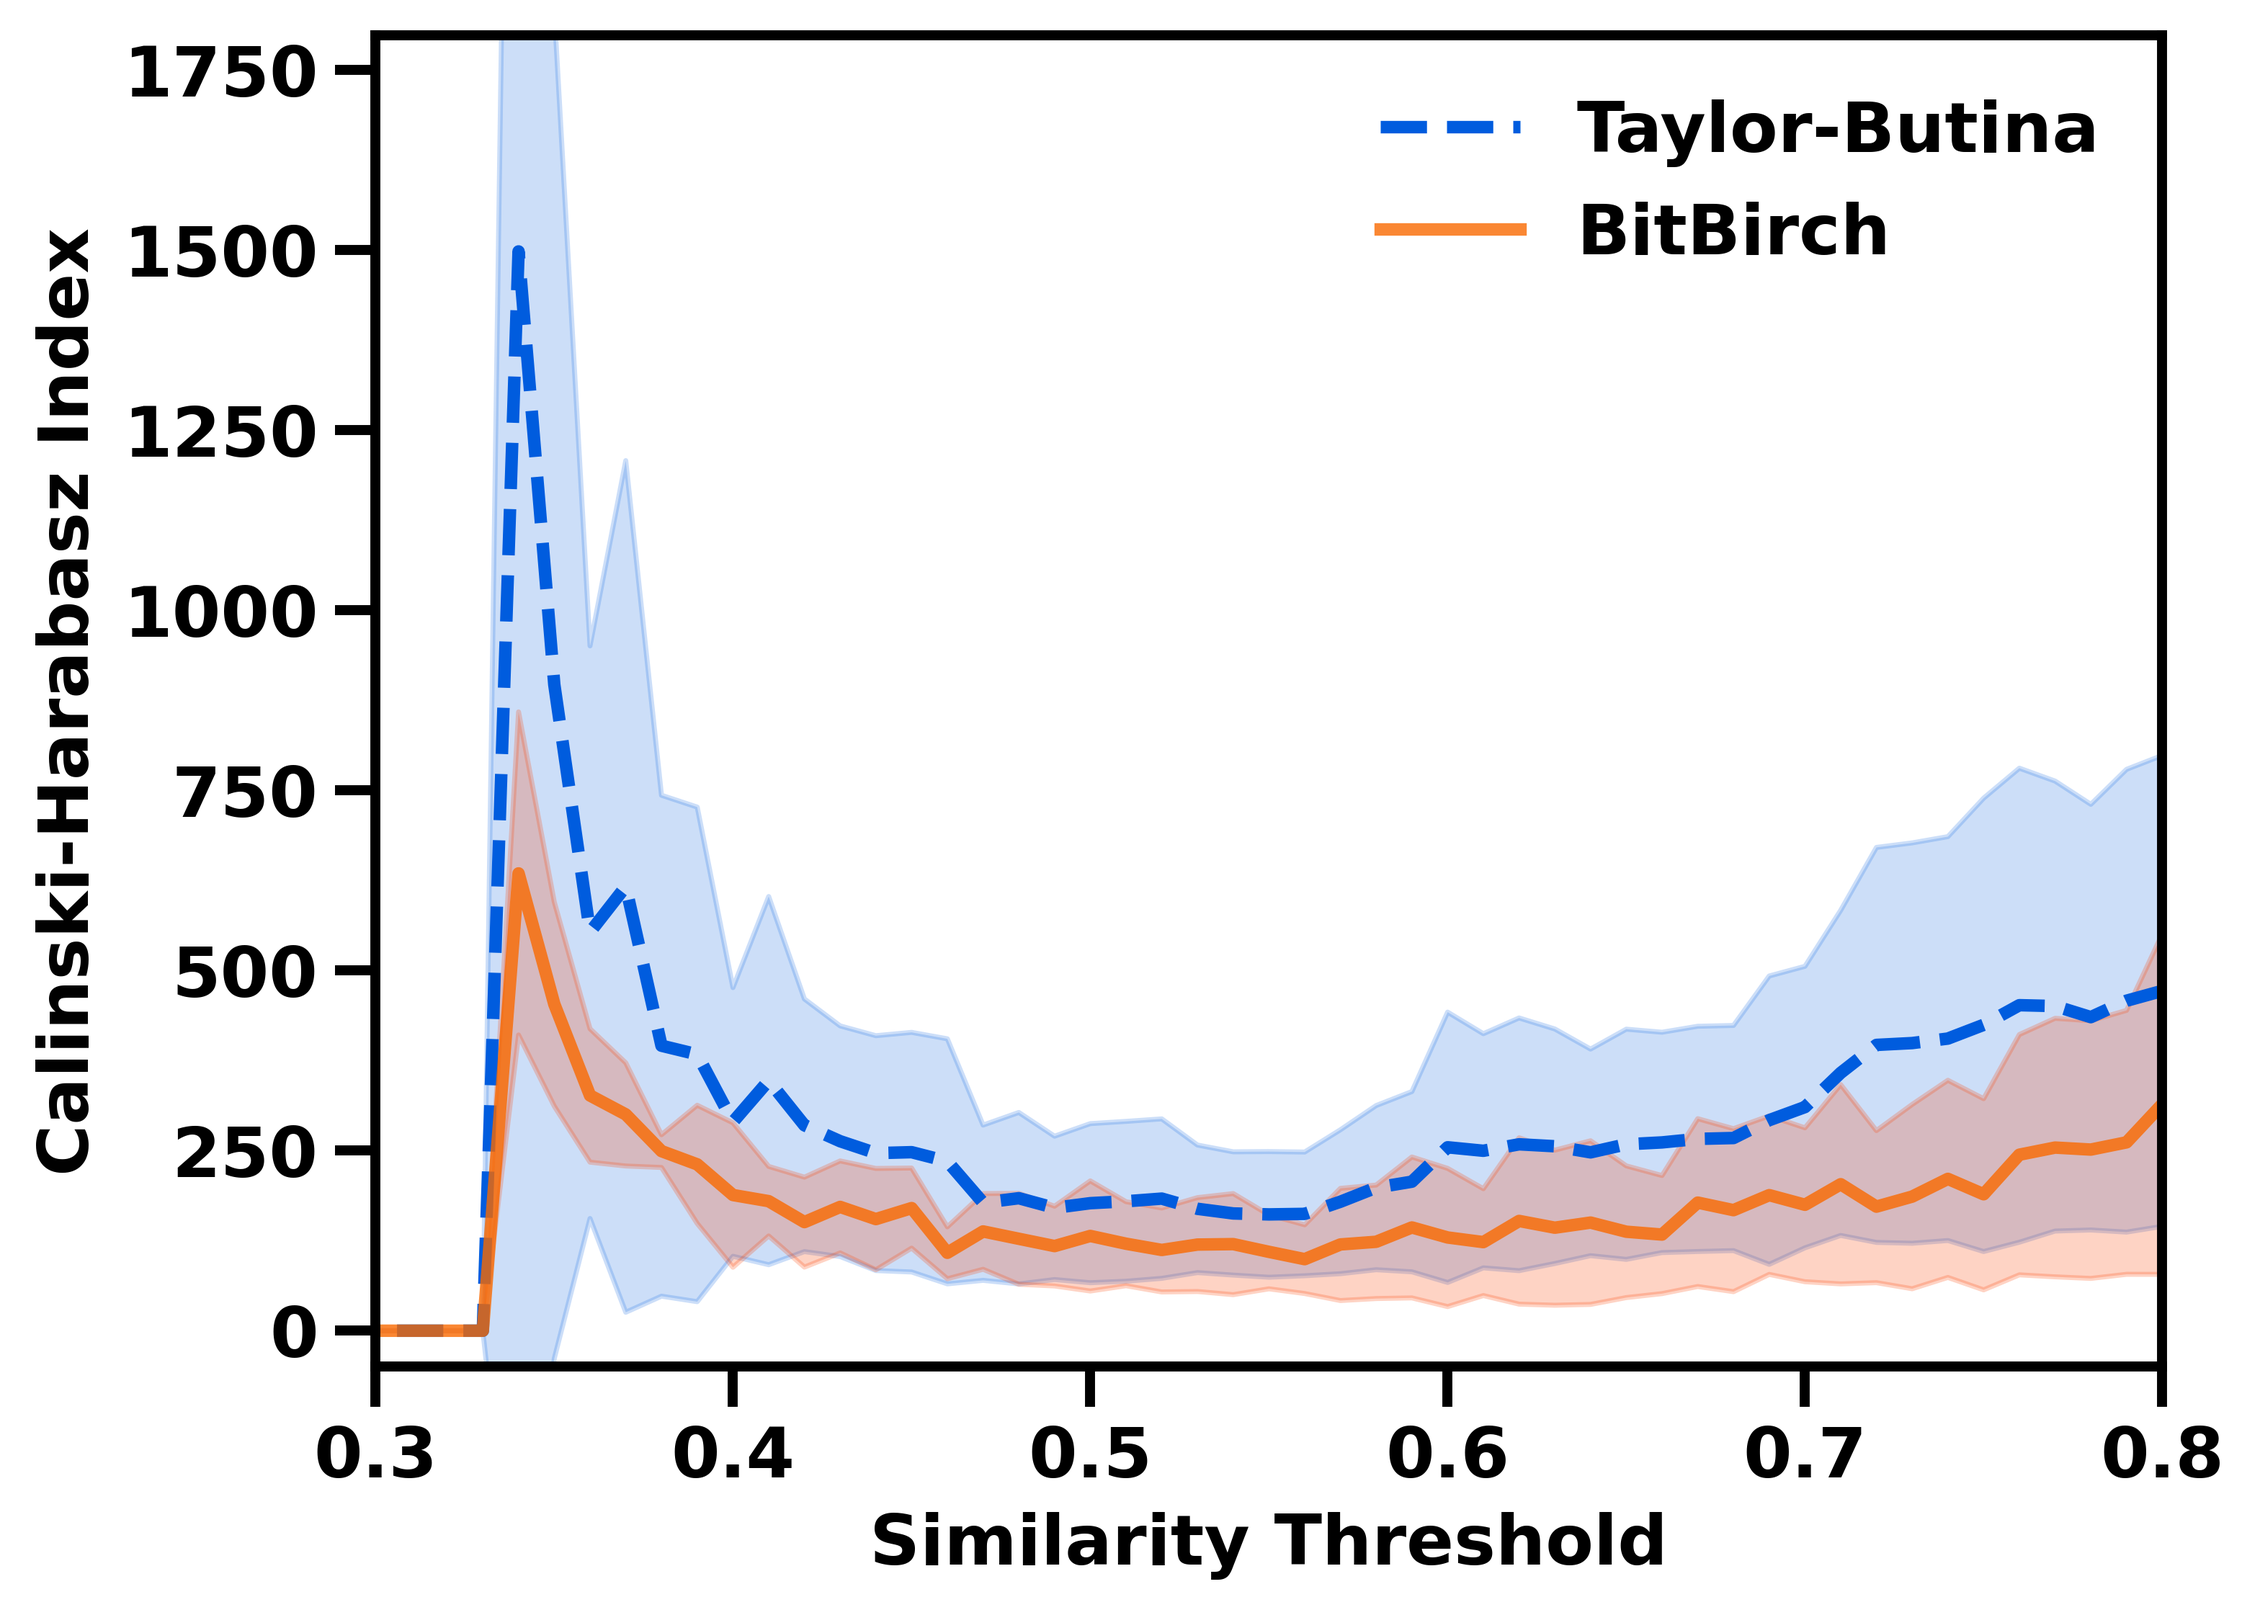
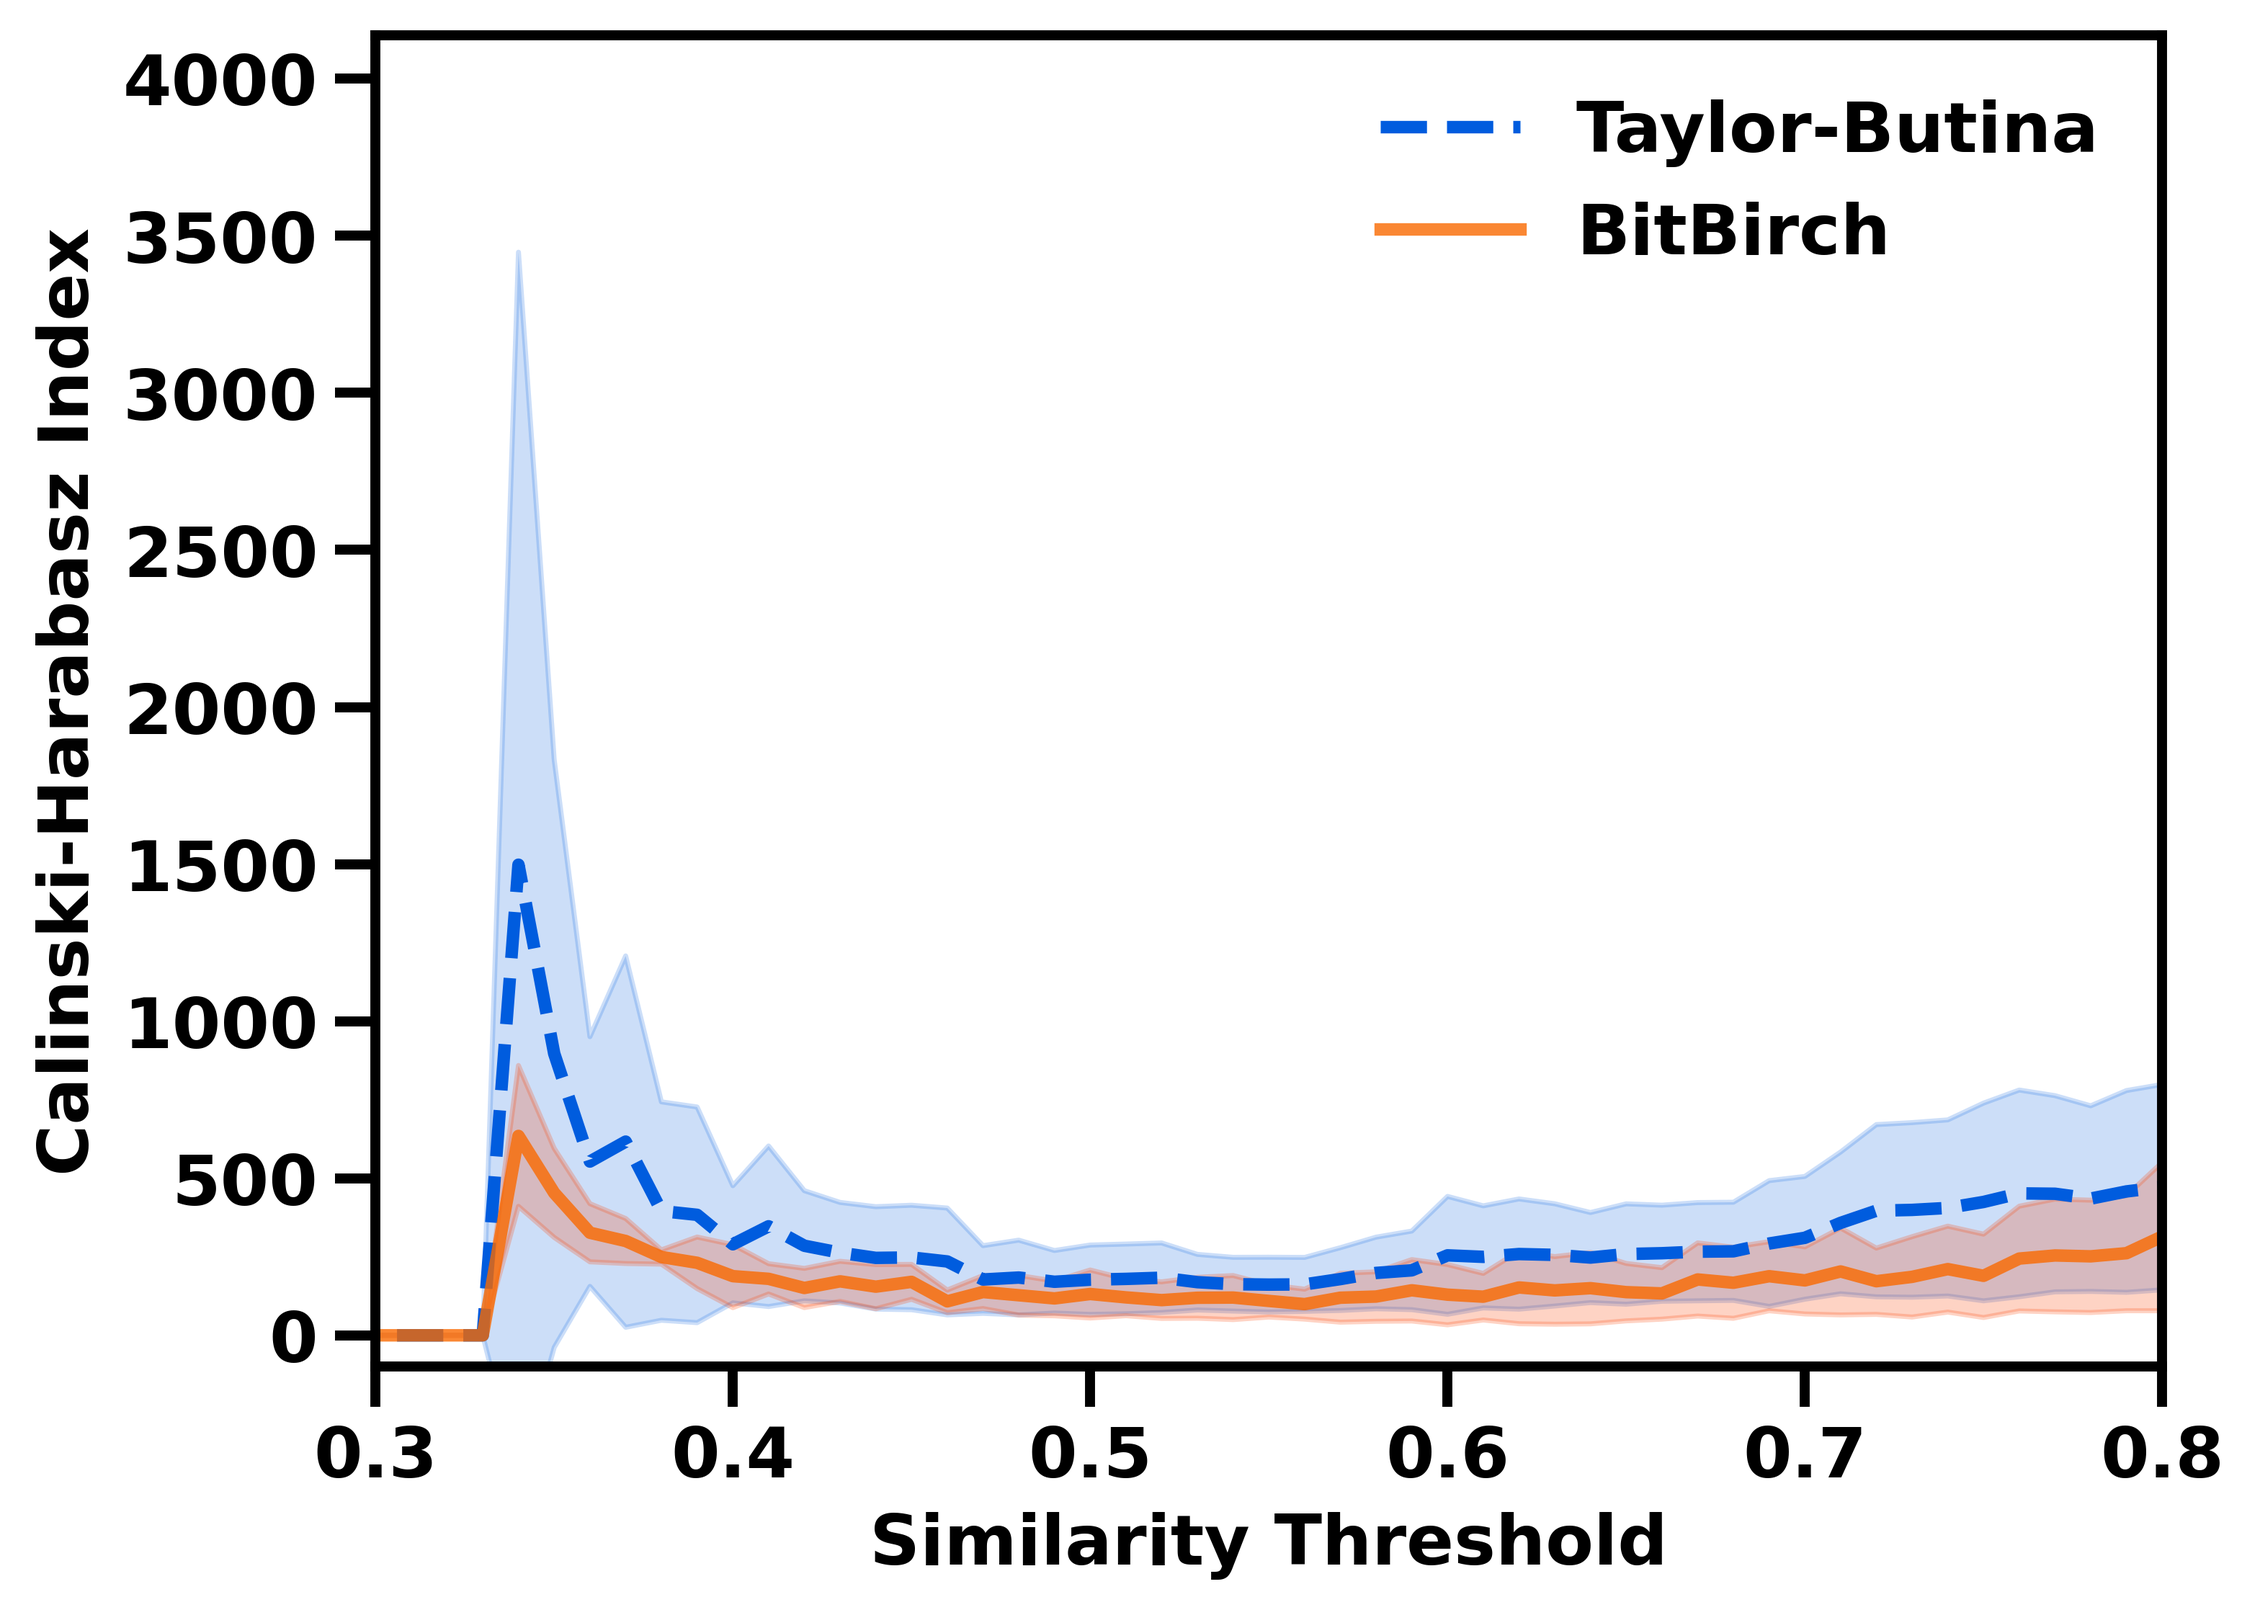
update limits

diff --git a/1-descriptor_sim/mean.py b/1-descriptor_sim/mean.py
@@ -68,8 +68,8 @@ for but_brc_file in but_brc_files:
         if idx == 0:
             # x_data is all the keys
             x_data = np.array(list(keys))
-            y_data = np.array(mean_values_but) 
-            y1_data = np.array(mean_values_brc) 
+            y_data = np.array(mean_values_but) + np.array(std_values_but)
+            y1_data = np.array(mean_values_brc) + np.array(std_values_brc)
             filtered_y_data = y_data[(x_data >= 0.3) & (x_data <= 0.8)]
             filtered_y1_data = y1_data[(x_data >= 0.3) & (x_data <= 0.8)]
             
@@ -82,7 +82,7 @@ for but_brc_file in but_brc_files:
                 min_y = min(filtered_y_data)
             else:
                 min_y = min(filtered_y1_data)
-            ax.set_ylim(min_y - 50, max_y + (0.2 * max_y))
+            ax.set_ylim(min_y - 100, max_y + (0.2 * max_y))
         
         ax.tick_params(axis='both', which='major', length=8, width=2)
         ax.legend(fontsize=14, frameon=False)
